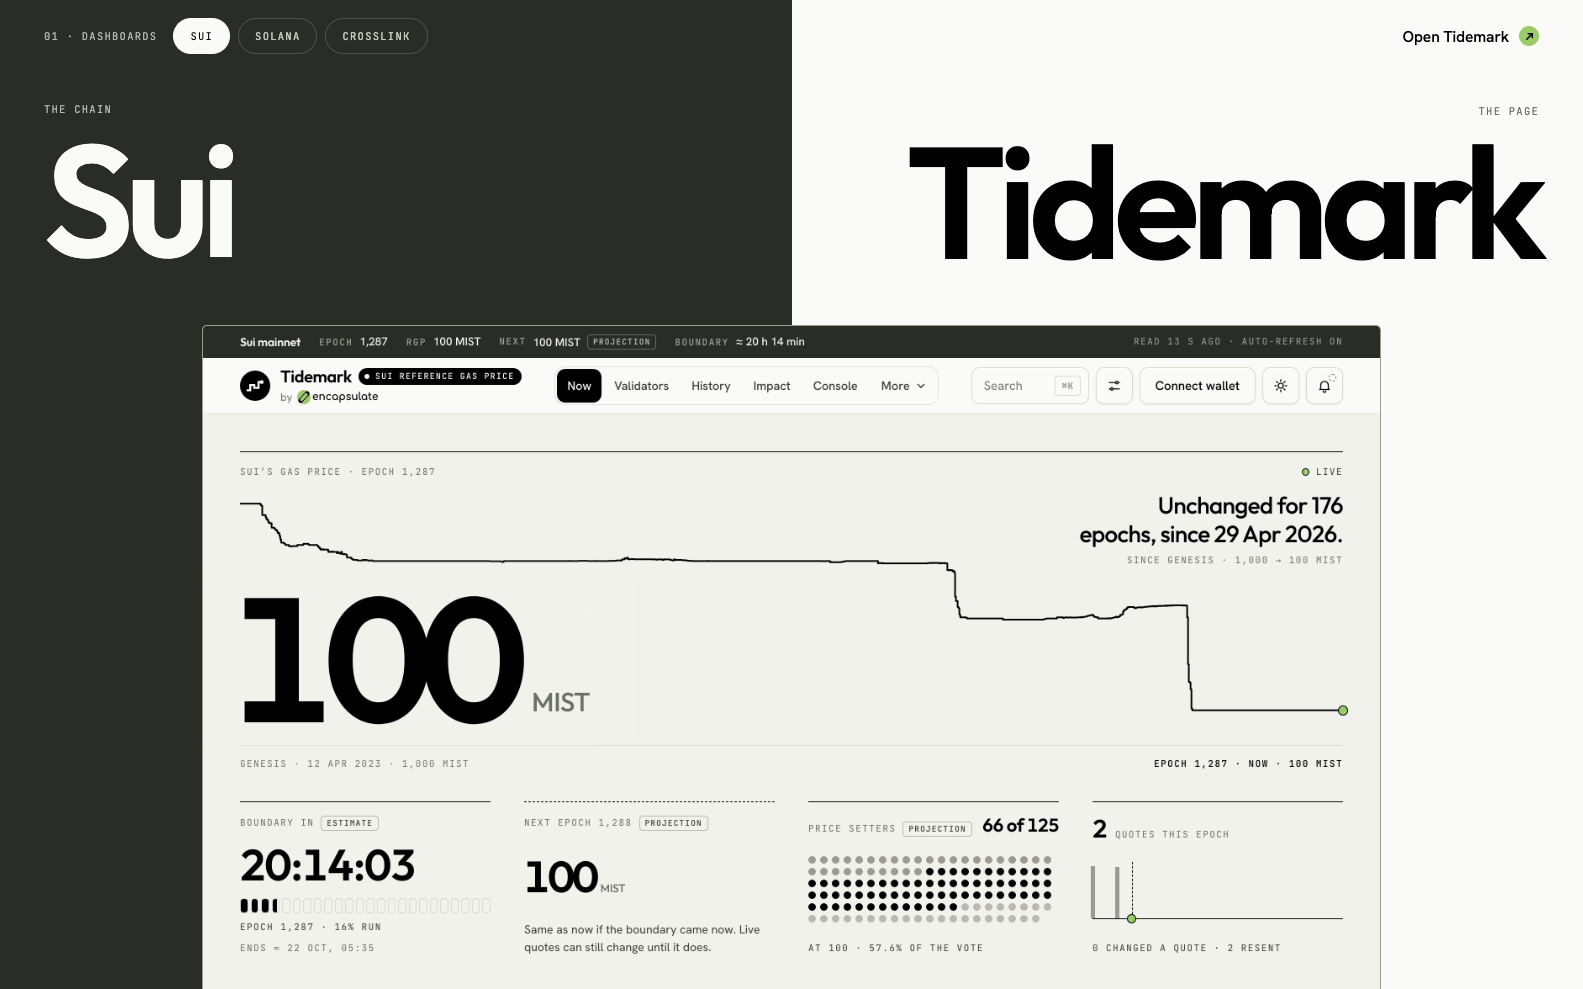
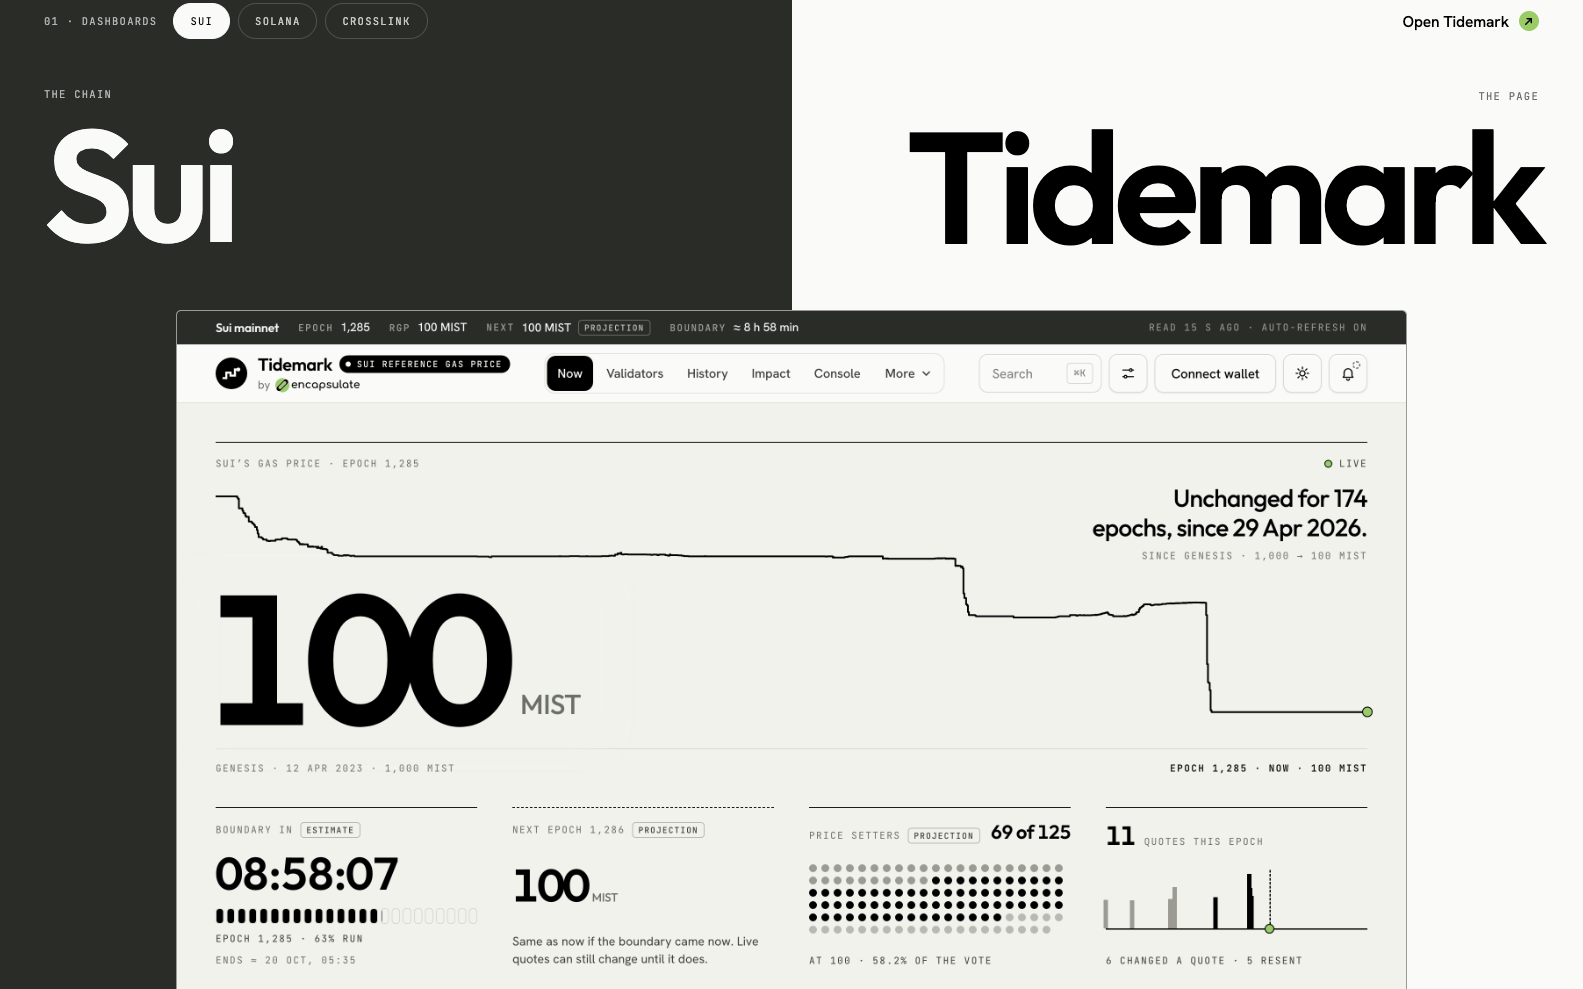
Navbar: the Dashboards picture is the design's own file (v365)
The zip the user sent holds panel-thumbs-2x/dashboards.png whole (get_file had cut it at
256 KB, so v364 carried a capture of the built band in its place). The /services captures
and glyphs are noted as the zip's too.

diff --git a/docs/services.md b/docs/services.md
@@ -79,8 +79,10 @@ hosts rgp.sui and graph.solana redirect to the new ones.
 - **Words**: everything is Notion's — the band's H2 makes the eyebrow ("01 · Dashboards"), its H3 and buttons the
   ask, the rows the rest; "The chain", "The page", "Visit", "Open {tool}", "Choose a dashboard" and the aria lines
   are the copy toggle's.
-- **The captures are the team's own** (2800×1576, from the user's Downloads, the newest of each: Tidemark of
-  2026-10-21, Crux and Holdfast of 2026-10-19 — Holdfast's later file, whose "CROSSLINK EXPLORER" badge is not cut).
-  The glyphs are the design's `network-glyphs/03-sui`, `42-solana`, `45-crosslink` (the Shielded Labs shield).
-  `get_file` returns a binary inline as base64; a file too long to copy by hand is taken back out of the session's
-  transcript (`~/.claude/projects/…/<session>.jsonl`) and checked chunk by chunk against its PNG CRCs.
+- **Every image is the design's own, from the zip the user sent** (`~/Downloads/Encapsulate Website.zip`,
+  `handoff-dashboards-section/`, 2026-10-21 — the user: "you will find all the images and glyphs here, use these"):
+  `panels-hires/tidemark-sui`, `crux-solana`, `holdfast-crosslink` (2800×1576, 1400×788 at 2x, taken 2026-10-19,
+  shown whole in a 1400/788 frame) as each row's Capture, and `network-glyphs/03-sui`, `42-solana`, `45-crosslink`
+  (600×600, black on transparency, the Shielded Labs shield for Crosslink) as its Glyph. Tidemark first went up as a
+  newer capture of 2026-10-21 from the Downloads folder and was put back to the design's the same day. When the
+  design ships a zip, take the files from it: `get_file` cuts a binary at 256 KB.

diff --git a/docs/navbar.md b/docs/navbar.md
@@ -308,7 +308,9 @@ plain glass, so both are cancelled, or whatever the bar lies over is smeared.
 **The Dashboards round (handoff 2026-10-21).** The file's only changes were Dashboards': its line "Gas price, stake
 map, explorer", its note ("Public tools that make a chain readable, free to use." / "Tidemark for Sui's gas price,
 Crux for Solana's stake, Holdfast for Crosslink's blocks."), its three "Live now" rows (the table's Menu, rewritten
-in Notion) and its capture, which is now the new /services band on the Sui split. The design's
-`panel-thumbs-2x/dashboards.png` (1583×989) came back cut off at `get_file`'s 256 KB, so the capture was taken from
-the built band itself at the same 1583×989 (`livecheck.mjs`, the frame at .68 of 3.7) — the same composition as the
-part of the design's file that arrived. The old capture is in `backups/nav-dashboards-2026-09-24.*`.
+in Notion) and its capture, which is now the new /services band on the Sui split: the design's
+`panel-thumbs-2x/dashboards.png` (1583×989), from the zip the user sent (`docs/services.md`, the Dashboards band).
+`get_file` had cut it off at 256 KB, so a capture of the built band at the same size stood in for one release (v364;
+kept as `backups/nav-dashboards-2026-10-21-built.png`). The capture before this round is in
+`backups/nav-dashboards-2026-09-24.*`. **A new picture needs a new navbar.js pin**: navbar.js asks for
+`img/nav-panels/<name>.webp` beside its own tag, so the image changes only when site.html's navbar.js tag does.
